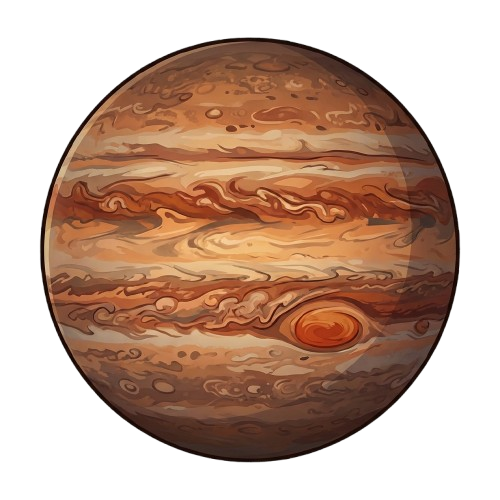
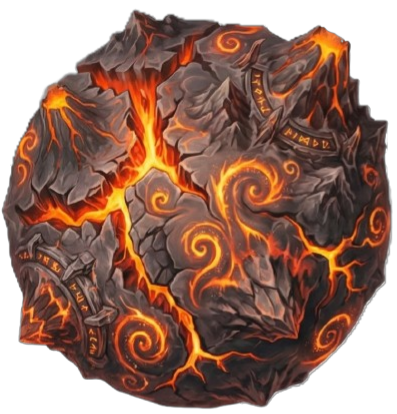
v3.8

diff --git a/snake.html b/snake.html
@@ -307,6 +307,55 @@
         color: rgba(255, 255, 255, 0.3);
         text-align: right;
       }
+
+      /* Skin Selector */
+      .skin-selector {
+        display: flex;
+        justify-content: center;
+        gap: 15px;
+        margin-top: 25px;
+        margin-bottom: 25px;
+        flex-wrap: wrap;
+      }
+      .skin-option {
+        width: 60px;
+        height: 60px;
+        border: 2px solid rgba(0, 255, 204, 0.3);
+        border-radius: 8px;
+        cursor: pointer;
+        transition: all 0.3s;
+        display: flex;
+        align-items: center;
+        justify-content: center;
+        background: rgba(0, 0, 0, 0.3);
+        overflow: hidden;
+        position: relative;
+      }
+      .skin-option:hover {
+        border-color: rgba(0, 255, 204, 0.8);
+        transform: translateY(-5px);
+        box-shadow: 0 5px 15px rgba(0, 255, 204, 0.2);
+      }
+      .skin-option.active {
+        border-color: #00ffcc;
+        background: rgba(0, 255, 204, 0.1);
+        box-shadow: 0 0 20px rgba(0, 255, 204, 0.4);
+      }
+      .skin-option img {
+        width: 100%;
+        height: auto;
+        image-rendering: pixelated;
+        transform: scale(2.5) rotate(-45deg);
+      }
+      .skin-label {
+        font-family: "Orbitron", sans-serif;
+        font-size: 10px;
+        color: #00ffcc;
+        margin-bottom: 8px;
+        text-transform: uppercase;
+        letter-spacing: 2px;
+        opacity: 0.8;
+      }
     </style>
   </head>
   <body>
@@ -371,6 +420,11 @@
         <div class="subtitle">DEEP SPACE</div>
         <h1 class="glitch">COSMIC SNAKE</h1>
         <p class="slogan">Domine o vácuo. Consuma os mundos.</p>
+
+        <div class="skin-label">Select your vessel</div>
+        <div class="skin-selector" id="skin-selector">
+          <!-- Options added via JS -->
+        </div>
 
         <button class="btn" onclick="startGame()">INITIATE MISSION</button>
         <button
@@ -645,8 +699,11 @@
             "rgba(255, 100, 0, 0.3)",
             "rgba(100, 255, 150, 0.3)",
             "rgba(200, 150, 255, 0.3)",
+            "rgba(255, 200, 0, 0.3)",
+            "rgba(0, 255, 255, 0.3)",
+            "rgba(255, 0, 255, 0.3)",
           ];
-          gradientHalo.addColorStop(0, colors[this.type % 4]);
+          gradientHalo.addColorStop(0, colors[this.type % colors.length]);
           gradientHalo.addColorStop(1, "rgba(0, 0, 0, 0)");
 
           ctx.globalCompositeOperation = "screen";
@@ -708,6 +765,18 @@
               case 3:
                 gradient.addColorStop(0, "#ddaa88");
                 gradient.addColorStop(1, "#553311");
+                break;
+              case 4:
+                gradient.addColorStop(0, "#ffffaa");
+                gradient.addColorStop(1, "#888800");
+                break;
+              case 5:
+                gradient.addColorStop(0, "#aaffff");
+                gradient.addColorStop(1, "#008888");
+                break;
+              case 6:
+                gradient.addColorStop(0, "#ffaaff");
+                gradient.addColorStop(1, "#880088");
                 break;
             }
             ctx.fillStyle = gradient;
@@ -804,8 +873,8 @@
       }
 
       const assets = {
-        snake: new Image(),
-        planets: [new Image(), new Image(), new Image(), new Image()],
+        skins: Array.from({ length: 5 }, () => new Image()),
+        planets: Array.from({ length: 7 }, () => new Image()),
         isLoaded: false,
         audio: {
           eat: new Audio("assets/SnakeAssets/Audio/eat.mp3"),
@@ -815,14 +884,40 @@
         },
       };
 
-      assets.snake.src = "assets/SnakeAssets/Imagens/Snake.PNG";
-      assets.snake.onload = () => {
-        assets.isLoaded = true;
-      };
+      assets.skins.forEach((img, i) => {
+        const name = i === 0 ? "Snake" : `Snake${i}`;
+        img.src = `assets/SnakeAssets/Imagens/${name}.PNG`;
+        img.onload = () => {
+          if (i === 0) assets.isLoaded = true;
+          updateSkinUI();
+        };
+      });
 
       assets.planets.forEach((img, i) => {
         img.src = `assets/SnakeAssets/Imagens/planet_${i}.png`;
       });
+
+      function updateSkinUI() {
+        const container = document.getElementById("skin-selector");
+        if (!container) return;
+        container.innerHTML = "";
+        assets.skins.forEach((skin, i) => {
+          const div = document.createElement("div");
+          div.className = `skin-option ${Game.selectedSkinIndex === i ? "active" : ""}`;
+          div.onclick = () => selectSkin(i);
+
+          const img = document.createElement("img");
+          img.src = skin.src;
+          div.appendChild(img);
+          container.appendChild(div);
+        });
+      }
+
+      function selectSkin(index) {
+        Game.selectedSkinIndex = index;
+        localStorage.setItem("snake_selected_skin", index);
+        updateSkinUI();
+      }
 
       let isMuted = false;
       function toggleMute() {
@@ -854,6 +949,8 @@
         timeSinceLastMove: 0,
         moveInterval: CONFIG.baseSpeed,
         activeBoosts: { speed: 0, immortal: 0 },
+        selectedSkinIndex:
+          parseInt(localStorage.getItem("snake_selected_skin")) || 0,
 
         init() {
           this.snake = [
@@ -892,7 +989,13 @@
             attempts++;
           } while (!valid && attempts < 100);
           if (valid)
-            this.planets.push(new Planet(x, y, Math.floor(Math.random() * 4)));
+            this.planets.push(
+              new Planet(
+                x,
+                y,
+                Math.floor(Math.random() * assets.planets.length),
+              ),
+            );
         },
 
         spawnBoost() {
@@ -1087,7 +1190,7 @@
           const points = this.snake.map((_, i) => getInterpolatedPos(i));
 
           if (points.length > 1) {
-            const bodyImg = assets.snake;
+            const bodyImg = assets.skins[this.selectedSkinIndex];
             const imgW = bodyImg.naturalWidth;
             const imgH = bodyImg.naturalHeight;
             const sxBody = 0,
@@ -1211,8 +1314,9 @@
             const sSize = CONFIG.gridSize * 1.6 * taperFactor;
 
             if (assets.isLoaded) {
-              const imgW = assets.snake.naturalWidth;
-              const imgH = assets.snake.naturalHeight;
+              const currentSkin = assets.skins[this.selectedSkinIndex];
+              const imgW = currentSkin.naturalWidth;
+              const imgH = currentSkin.naturalHeight;
               let sx, sy, sw, sh;
 
               if (index === 0) {
@@ -1228,7 +1332,7 @@
               }
 
               ctx.drawImage(
-                assets.snake,
+                currentSkin,
                 sx,
                 sy,
                 sw,

diff --git a/index.html b/index.html
@@ -9,7 +9,12 @@
       type="image/png"
       href="assets/SuporteApp-Assets/favicon.png"
     />
-    <link rel="manifest" href="assets/SuporteApp-Assets/manifest.json" />
+    <link
+      rel="shortcut icon"
+      href="assets/SuporteApp-Assets/favicon.ico"
+      type="image/x-icon"
+    />
+    <link rel="manifest" href="manifest.json?v=1.1" />
     <link rel="apple-touch-icon" href="assets/SuporteApp-Assets/favicon.png" />
     <meta name="theme-color" content="#e94560" />
     <meta name="mobile-web-app-capable" content="yes" />

diff --git a/sw.js b/sw.js
@@ -5,7 +5,7 @@ const CACHE_NAME = "suporteapp-v3.7.4";
 const urlsToCache = [
   "./",
   "./index.html",
-  "./assets/SuporteApp-Assets/manifest.json",
+  "./manifest.json",
   "./assets/SuporteApp-Assets/favicon.png",
   "./texts.json",
 ];